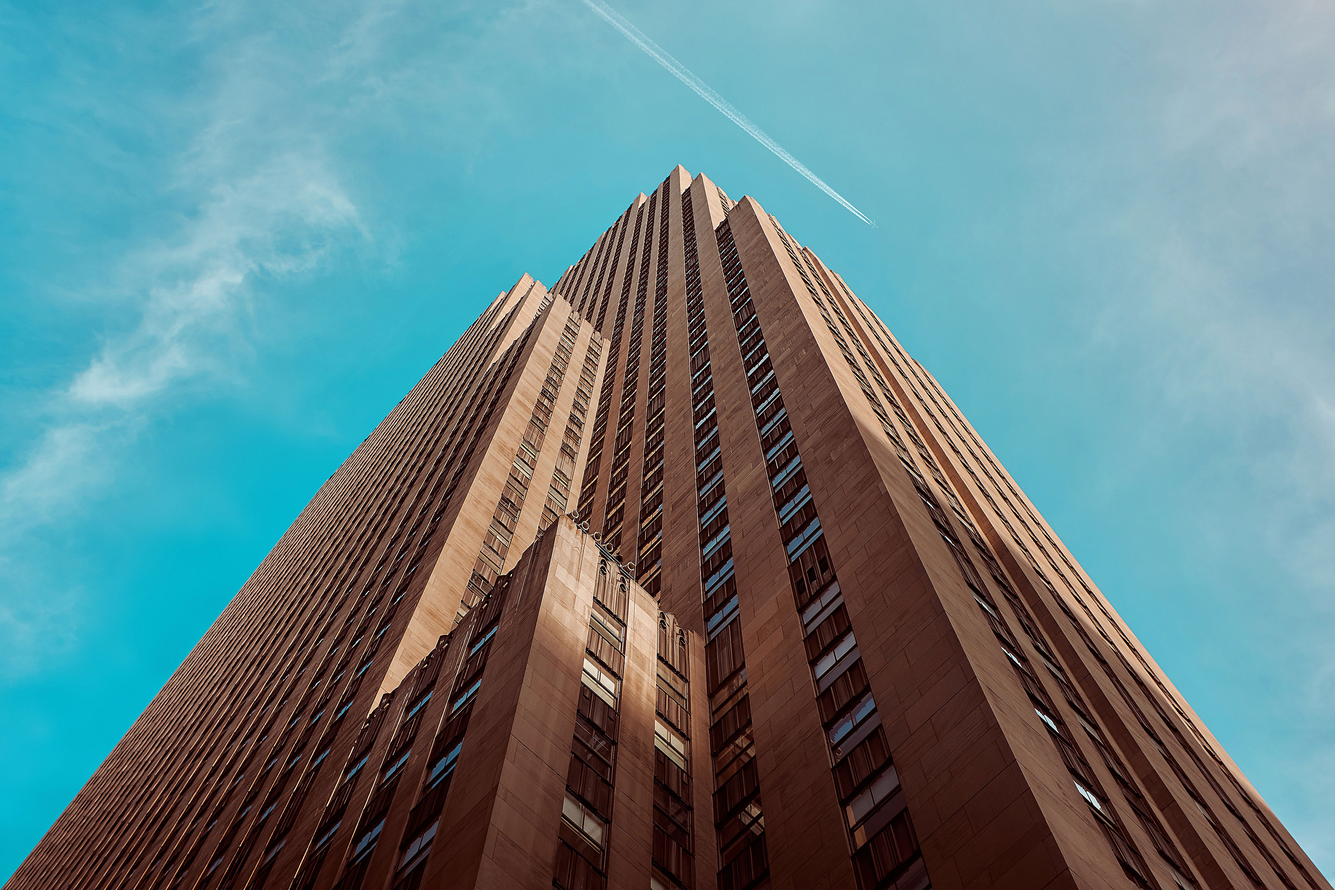
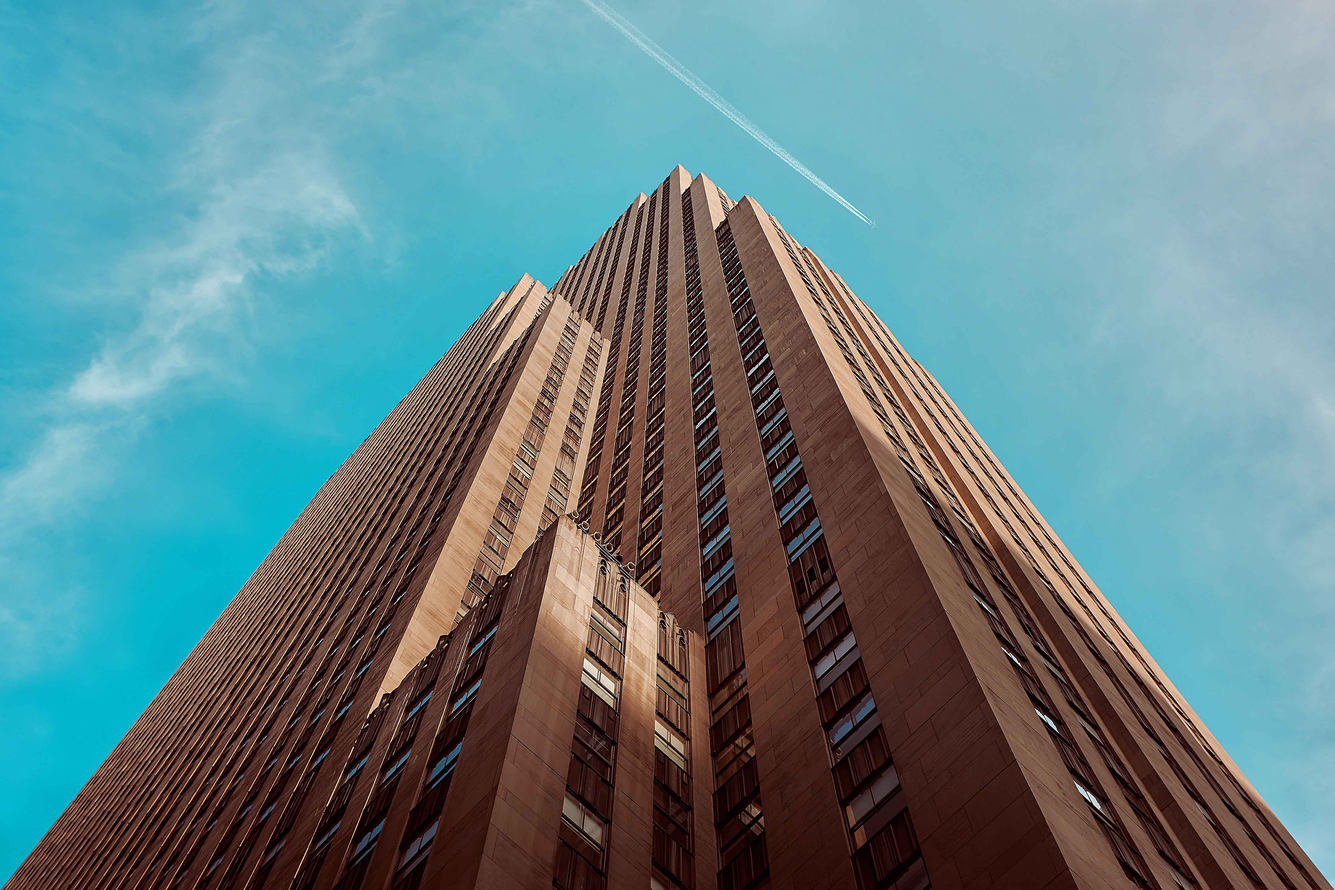
Lower res background images

diff --git a/typography/index.html b/typography/index.html
@@ -1,4 +1,6 @@
-<!--S'avoir est bon, faire est mieux. // Don't change, run fast, and live life happy. // Y'all need to chill the fuck out. // Make/break mistakes // Respect the ocean-->
+<!--S'avoir est bon, faire est mieux. // Don't change, run fast, and live life happy. // Y'all need to chill the fuck out. // Make/break mistakes // Respect the ocean
+
+Process images with sharpen 100% at 2 radius and save for web low res-->
 <link href='http://fonts.googleapis.com/css?family=Roboto:100|Expletus+Sans:700|Merriweather:300|Raleway:900|Alegreya+Sans:700,900|Monsieur+La+Doulaise|EB+Garamond&effect=anaglyph' rel='stylesheet' type='text/css'>
 <link href="styles.css" rel="stylesheet" type="text/css">
 <link rel="stylesheet" href="https://maxcdn.bootstrapcdn.com/font-awesome/4.5.0/css/font-awesome.min.css">

diff --git a/typography/styles.css b/typography/styles.css
@@ -263,7 +263,7 @@ footer p {
   position: relative;
   height: 80rem;
   padding: 9rem 0;
-  background: #362819 url('../img/typography/pragser-wildsee-web.jpg') no-repeat;
+  background: #FFF url('../img/typography/pragser-wildsee-web.jpg') no-repeat;
   background-size: 100%;
   z-index: 2;
 }
@@ -319,7 +319,7 @@ footer p {
   background-size: contain;
   height: 20rem;
   padding: 15rem 0;
-  background: #362819 url('../img/typography/bergen-web.jpg') no-repeat;
+  background: #999999 url('../img/typography/bergen-web.jpg') no-repeat;
   background-size: 100%;
 }
 
